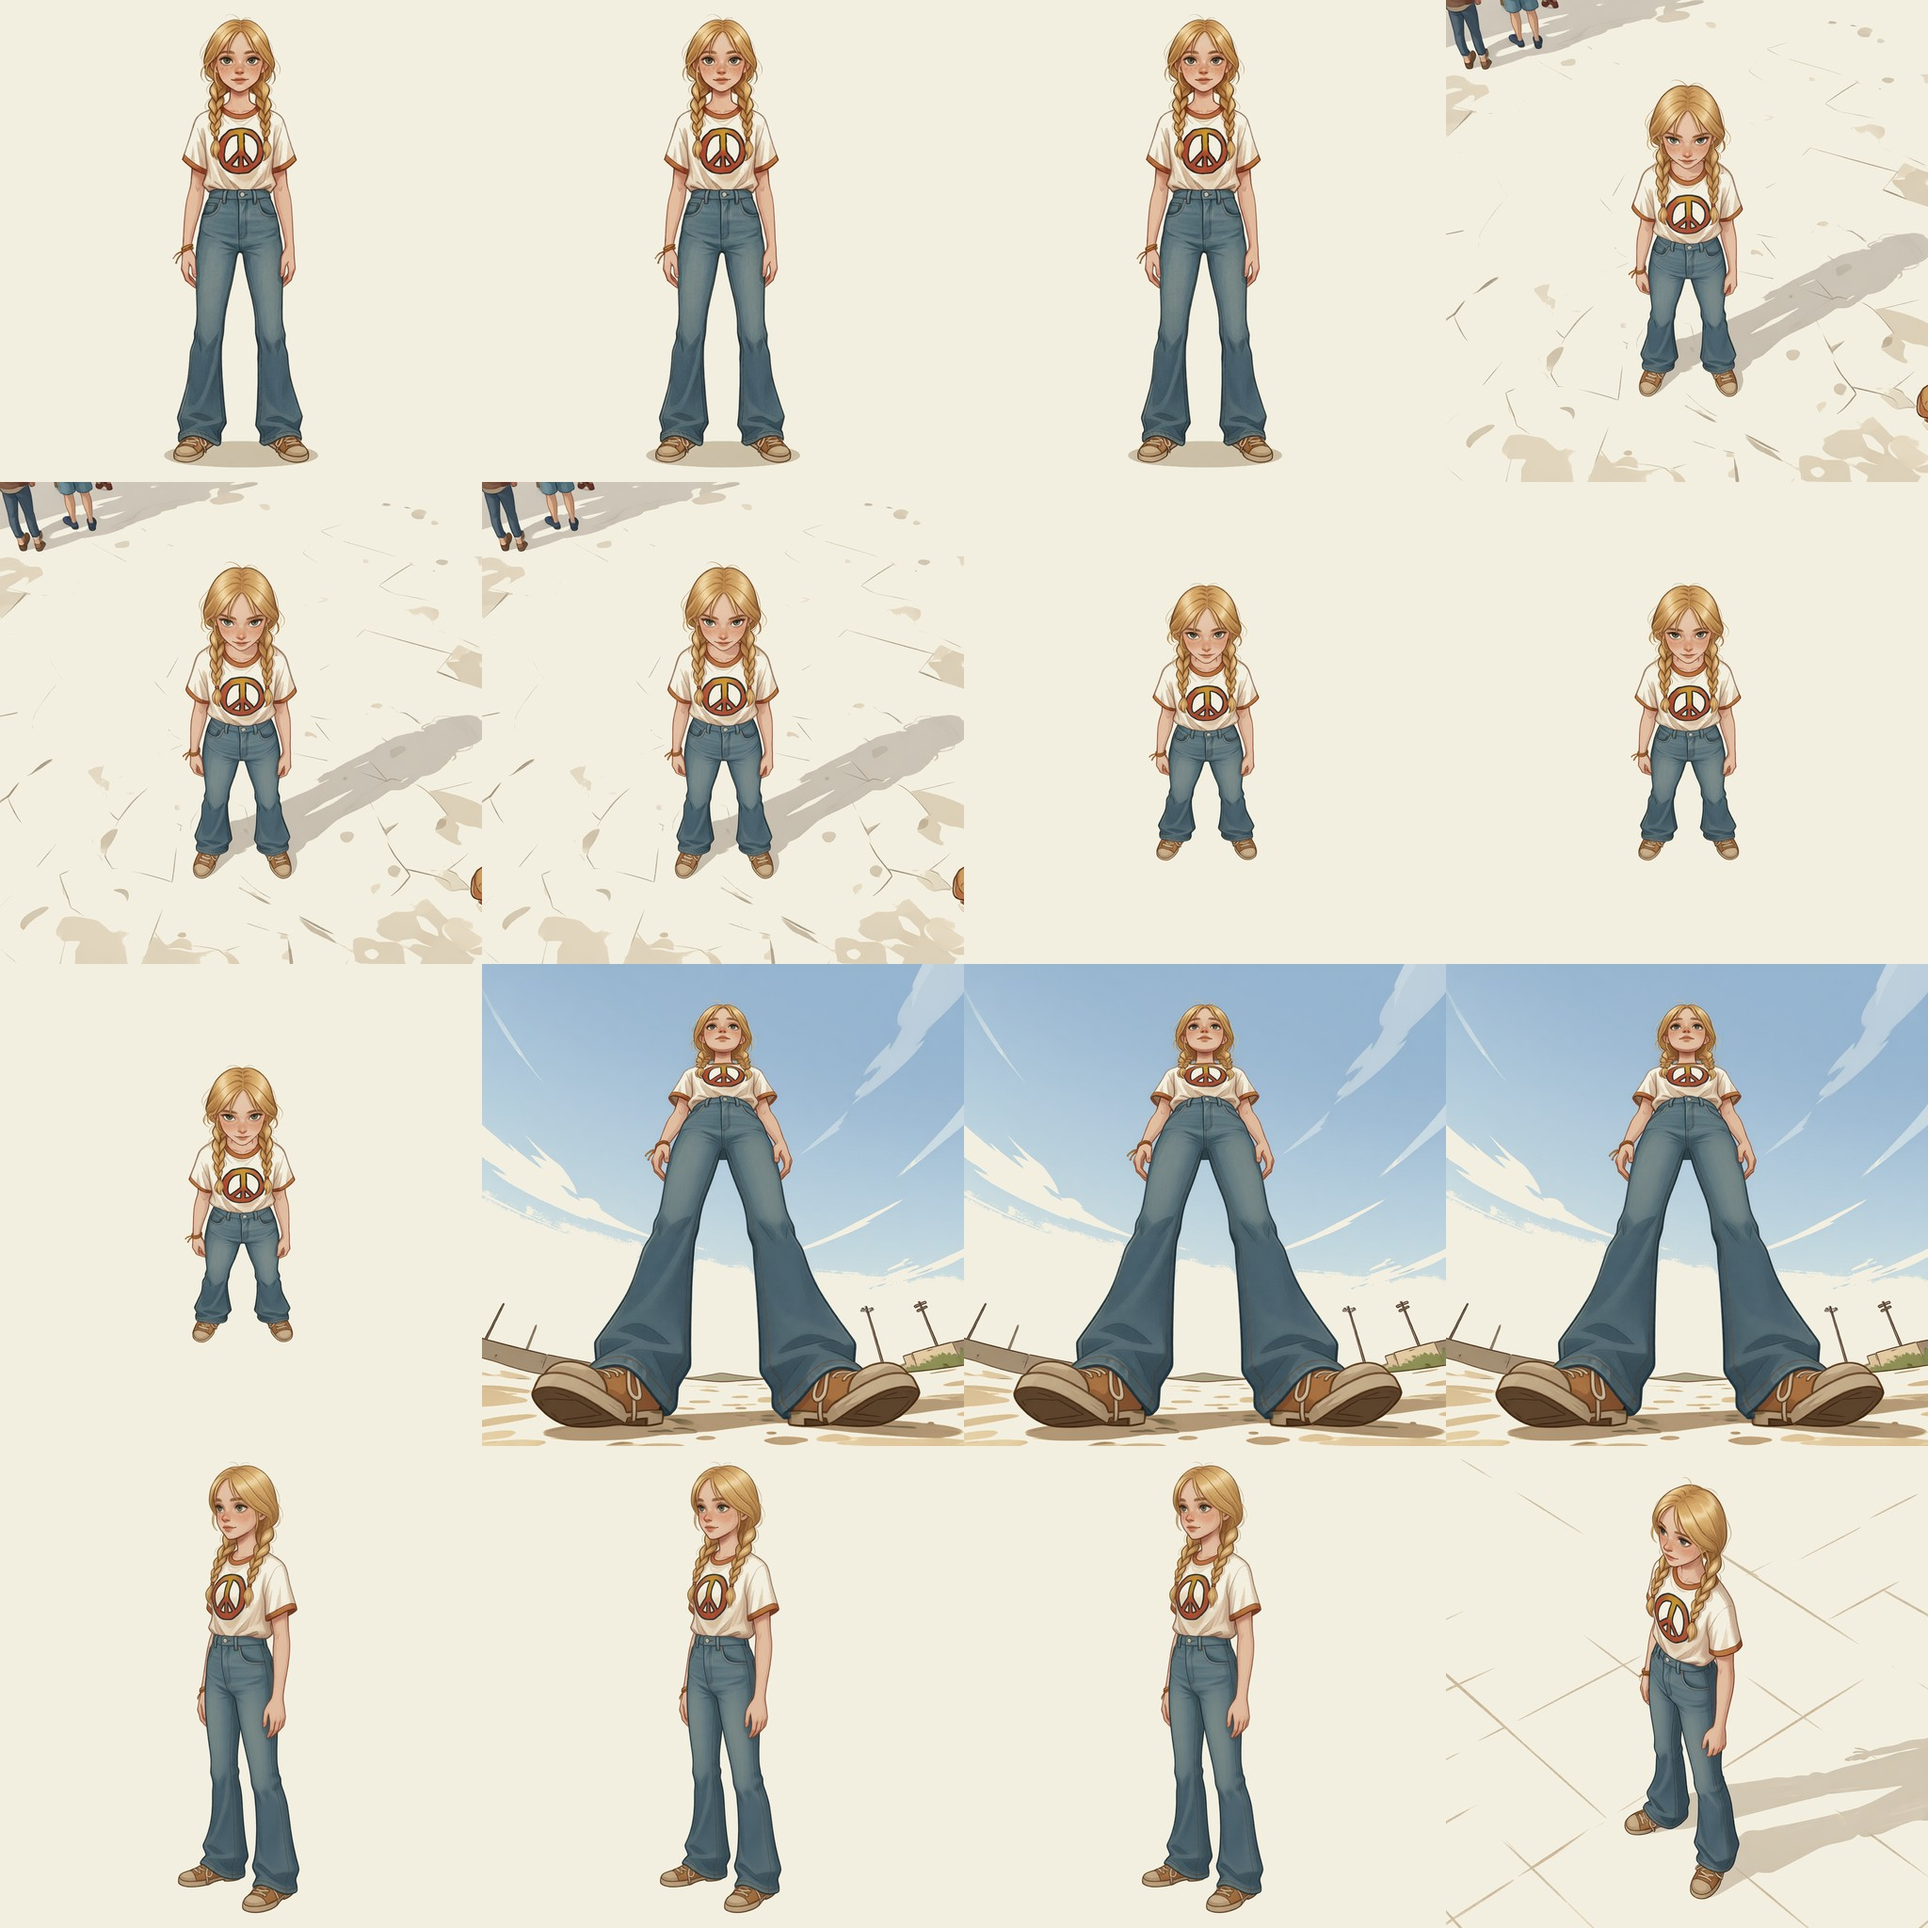
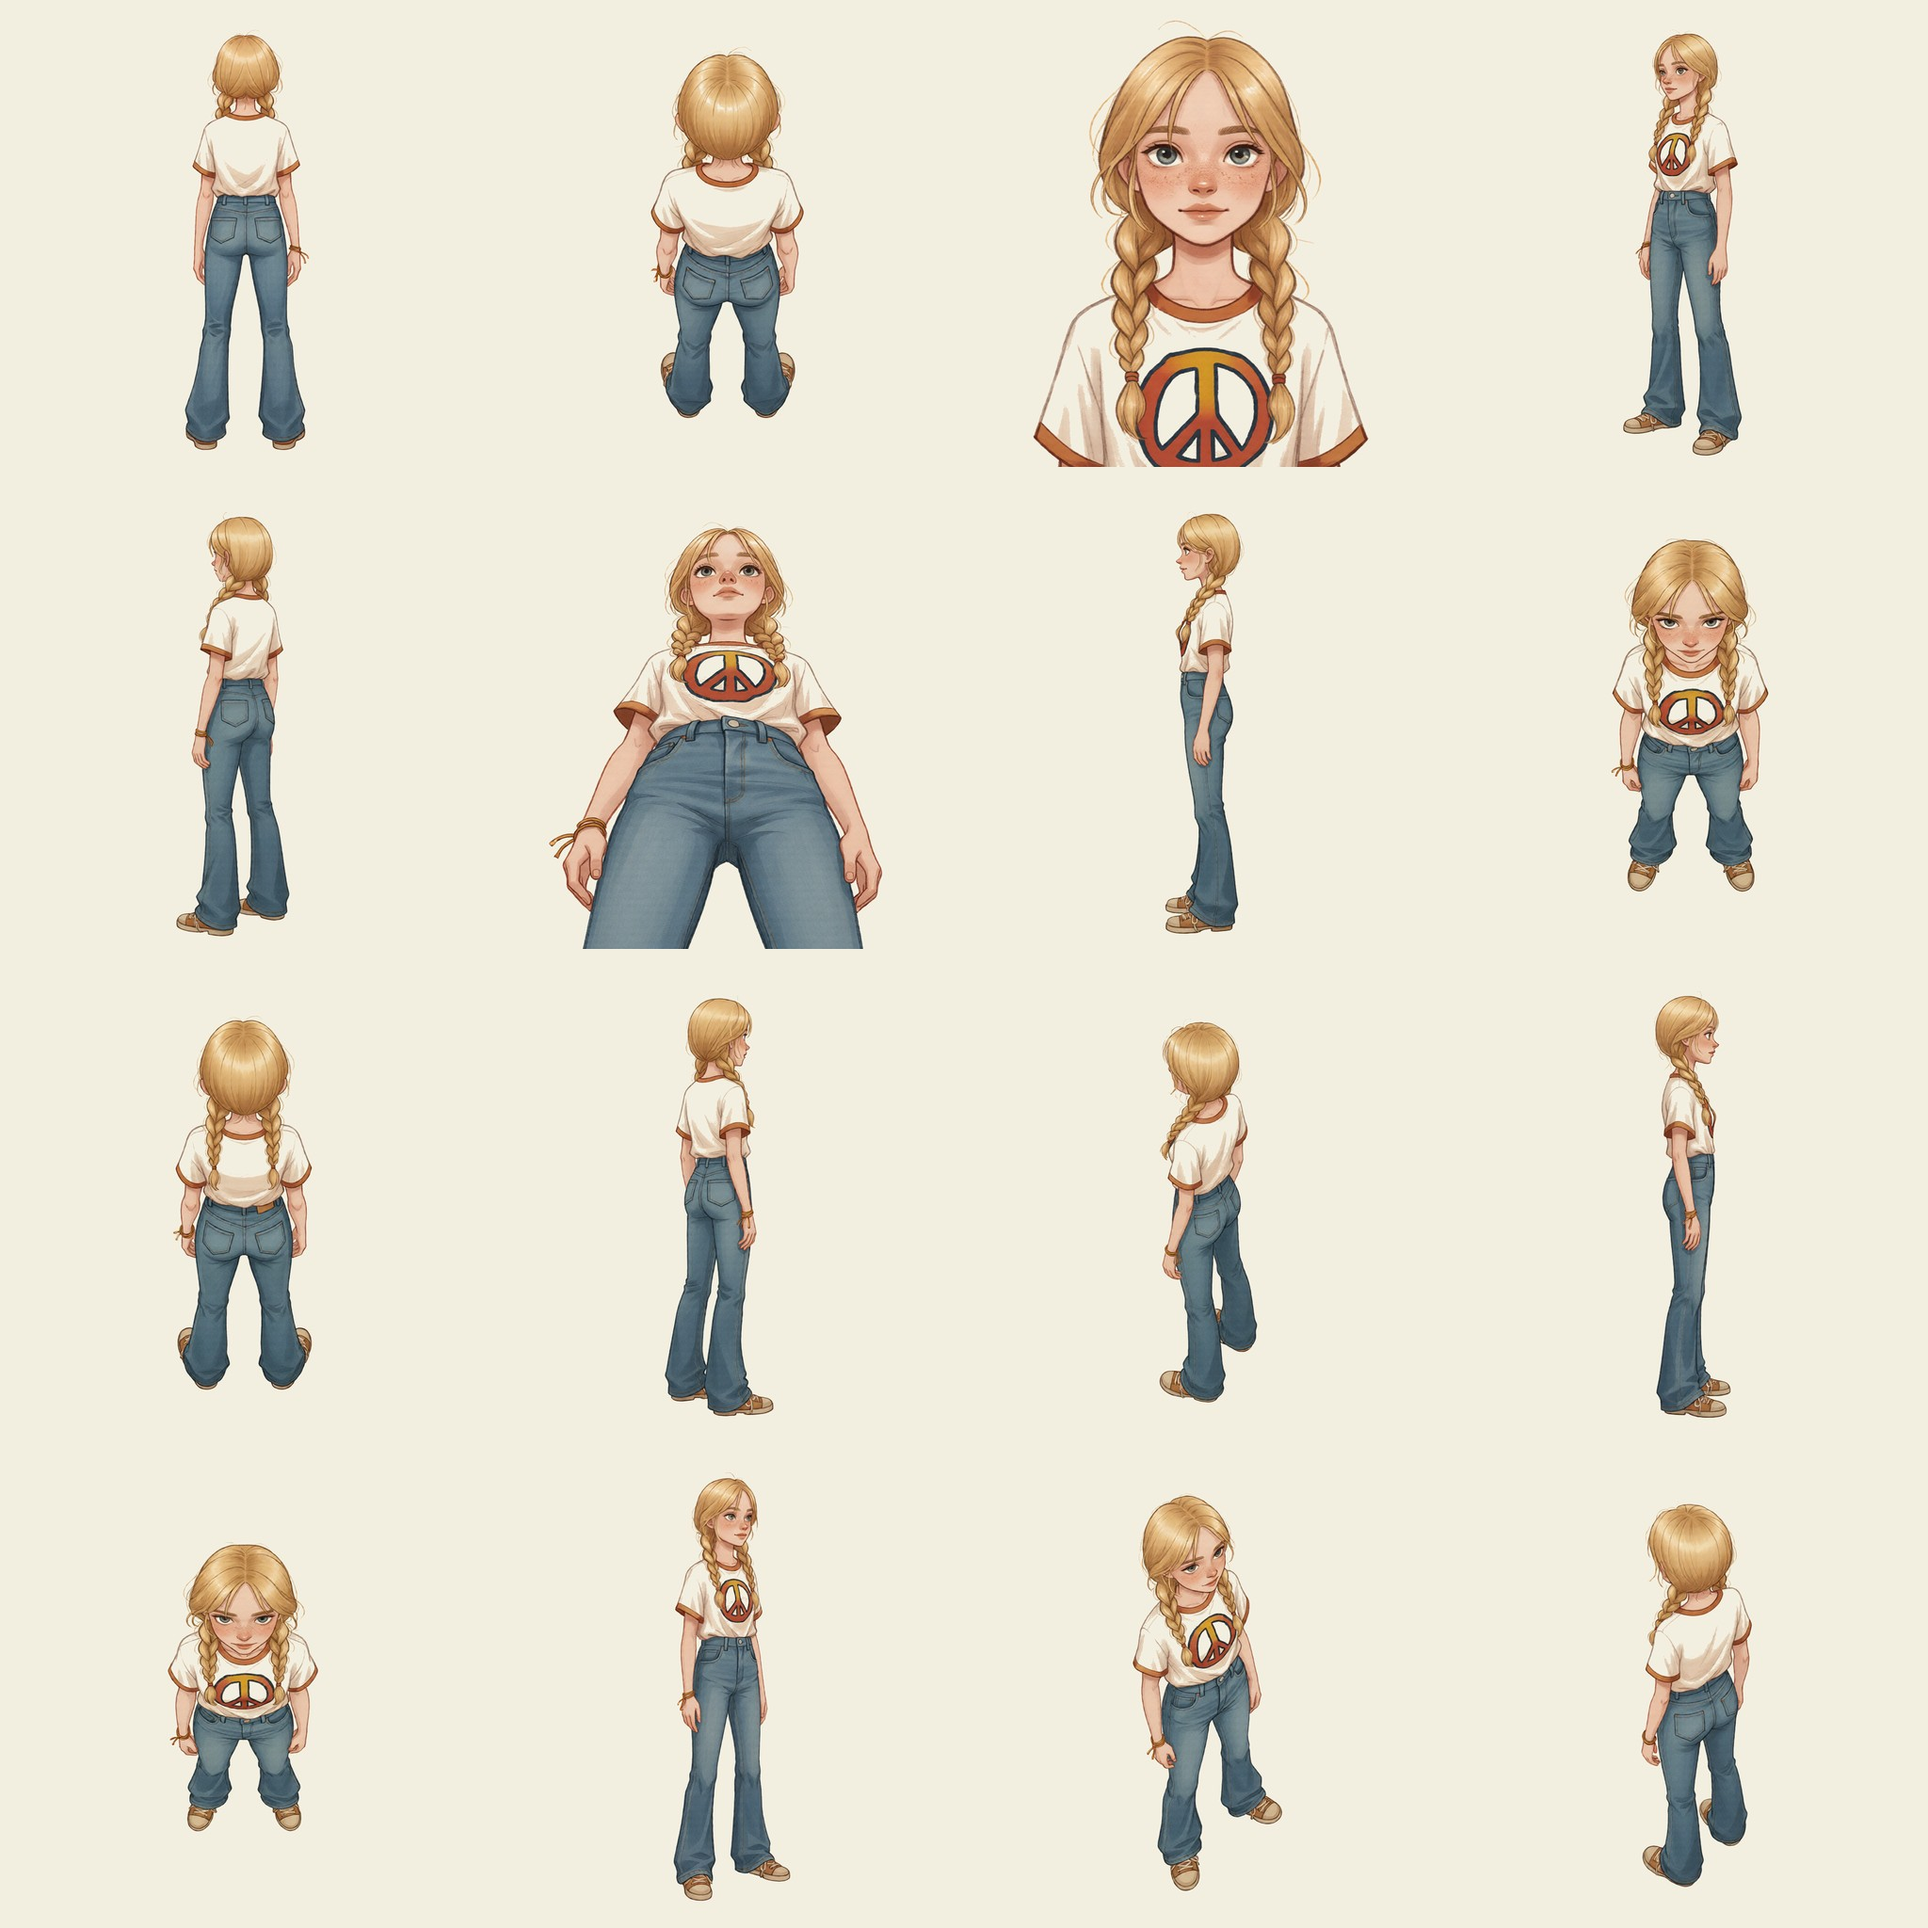
Add angles_prompt, poses_prompt pipelines, auto checkerboard cleanup, curated angle grid
- angles_prompt: 72 prompt-based camera angles (8 dirs x 3 distances x 3 elevations)
- poses_prompt: 16 text-driven body poses (walking, dancing, reading, etc.)
- Automatic checkerboard artifact cleanup on all downloaded images
- Curated 4x4 angle grid from 2509 pipeline
- Updated social preview

diff --git a/batch_multi_angle.py b/batch_multi_angle.py
@@ -173,6 +173,40 @@ POSES = {
     "shy_stance":     "Change the pose to a shy, bashful stance. Hands clasped together in front of the body at waist level, fingers intertwined. Shoulders raised slightly, one foot turned inward pigeon-toed. Head tilted down with eyes looking up.",
 }
 
+ANGLES_PROMPT = {}
+_GAZE_BRAID = "The character's eyes and gaze face the same direction the body is pointing. The braids drape in front of the shoulders, not behind."
+_DIRECTIONS = [
+    ("front",       "000", "front-facing",                                          ""),
+    ("front_right", "045", "from a 3/4 front-right angle",                          "Rotate the camera 45 degrees to the right."),
+    ("right",       "090", "in right side profile",                                 "Rotate the camera 90 degrees to the right."),
+    ("back_right",  "135", "from behind and slightly to the right",                 "Rotate the camera 135 degrees to the right."),
+    ("back",        "180", "from directly behind",                                  "Rotate the camera 180 degrees to show the back."),
+    ("back_left",   "225", "from behind and slightly to the left",                  "Rotate the camera 135 degrees to the left."),
+    ("left",        "270", "in left side profile",                                  "Rotate the camera 90 degrees to the left."),
+    ("front_left",  "315", "from a 3/4 front-left angle",                           "Rotate the camera 45 degrees to the left."),
+]
+for _name, _deg, _view, _rotate in _DIRECTIONS:
+    _r = f"{_rotate} " if _rotate else ""
+    ANGLES_PROMPT[f"{_name}_close"]  = f"{_r}Close-up shot showing head and shoulders {_view}. {_GAZE_BRAID}"
+    ANGLES_PROMPT[f"{_name}_medium"] = f"{_r}Move the camera much closer to the subject. The image should only contain the upper half of the body, from head to waist {_view}. The lower body is cut off by the bottom of the frame. {_GAZE_BRAID}"
+    ANGLES_PROMPT[f"{_name}_wide"]   = f"{_r}Full body wide shot {_view}, showing the entire figure from head to toe. {_GAZE_BRAID}"
+    # Elevated 30° versions (camera above looking down)
+    _elev_cam = "The camera is higher up, at head height plus 3 feet, angled slightly downward. The horizon line is low in the frame. Do not roll or rotate the camera, keep it perfectly level left to right."
+    _neutral_gaze = "Keep the exact same neutral facial expression as the original image. The character looks straight ahead in the direction the body faces, not at the camera. The braids drape in front of the shoulders, not behind."
+    ANGLES_PROMPT[f"{_name}_elev_close"]  = f"{_r}{_elev_cam} Close-up shot showing head and shoulders {_view}. {_neutral_gaze}"
+    ANGLES_PROMPT[f"{_name}_elev_medium"] = f"{_r}{_elev_cam} Move the camera much closer. The image should only contain the upper half of the body from head to waist {_view}. The lower body is cut off by the bottom of the frame. {_neutral_gaze}"
+    ANGLES_PROMPT[f"{_name}_elev_wide"]   = f"{_r}{_elev_cam} Full body wide shot {_view}, showing the entire figure from head to toe. {_neutral_gaze}"
+    # Low angle 30° versions (camera below looking up)
+    _low_cam = "The camera is lower, at knee height, angled slightly upward. The horizon line is high in the frame. Do not roll or rotate the camera, keep it perfectly level left to right."
+    ANGLES_PROMPT[f"{_name}_low_close"]  = f"{_r}{_low_cam} Close-up shot showing head and shoulders {_view}. {_neutral_gaze}"
+    ANGLES_PROMPT[f"{_name}_low_medium"] = f"{_r}{_low_cam} Move the camera much closer. The image should only contain the upper half of the body from head to waist {_view}. The lower body is cut off by the bottom of the frame. {_neutral_gaze}"
+    ANGLES_PROMPT[f"{_name}_low_wide"]   = f"{_r}{_low_cam} Full body wide shot {_view}, showing the entire figure from head to toe. {_neutral_gaze}"
+
+ANGLES_PROMPT_PREFIX = (
+    "Keep the same outfit, hairstyle, hair color, identity, and the same plain solid color background. "
+    "Do not change the background color or add any scene elements. "
+)
+
 POSES_PREFIX = (
     "Keep the same outfit, hairstyle, hair color, identity, and the same plain solid color background. "
     "Do not change the background color or add any scene elements. "
@@ -223,7 +257,7 @@ def build_workflow(
             image_filename, pose_image_filename, prompt, seed, steps,
             guidance_scale, lora_strength_lightning, filename_prefix,
         )
-    if pipeline in ("expressions", "lighting", "outfits", "poses_prompt"):
+    if pipeline in ("expressions", "lighting", "outfits", "poses_prompt", "angles_prompt"):
         return build_workflow_expressions(
             image_filename, prompt, seed, steps, guidance_scale,
             lora_strength_lightning, filename_prefix,
@@ -1284,8 +1318,8 @@ def main():
     p.add_argument("--elevations", default=None, help="Subset, e.g. -30,0,30,60")
     p.add_argument("--distances", default=None, help="Subset, e.g. 0.6,1.0,1.8")
     p.add_argument("--pipeline", default="2511",
-                   choices=["2509", "2511", "anypose", "expressions", "lighting", "outfits", "poses_prompt"],
-                   help="Model pipeline: 2509, 2511 (default), anypose, expressions, lighting, outfits, or poses_prompt")
+                   choices=["2509", "2511", "anypose", "expressions", "lighting", "outfits", "poses_prompt", "angles_prompt"],
+                   help="Model pipeline: 2509, 2511 (default), anypose, expressions, lighting, outfits, poses_prompt, or angles_prompt")
     p.add_argument("--pose-dir", default=None,
                    help="Directory of pose images (required for --pipeline anypose)")
     p.add_argument("--prompt-append", default="",
@@ -1316,7 +1350,14 @@ def main():
 
     suffix = f" {args.prompt_append}" if args.prompt_append else ""
 
-    if args.pipeline == "poses_prompt":
+    if args.pipeline == "angles_prompt":
+        jobs = [
+            (None, None, None,
+             ANGLES_PROMPT_PREFIX + desc + suffix,
+             f"angle_{name}.png")
+            for name, desc in ANGLES_PROMPT.items()
+        ]
+    elif args.pipeline == "poses_prompt":
         jobs = [
             (None, None, None,
              POSES_PREFIX + desc + suffix,
@@ -1376,6 +1417,8 @@ def main():
     print(f"\n{'='*64}")
     if args.pipeline == "anypose":
         print(f"  Qwen Image Edit — AnyPose Batch Renderer")
+    elif args.pipeline == "angles_prompt":
+        print(f"  Qwen Image Edit — Prompt Angle Batch Renderer")
     elif args.pipeline == "poses_prompt":
         print(f"  Qwen Image Edit — Prompt Pose Batch Renderer")
     elif args.pipeline == "expressions":
@@ -1390,6 +1433,8 @@ def main():
     print(f"  Input   : {args.image}")
     if args.pipeline == "anypose":
         print(f"  Pose Dir: {args.pose_dir}  ({total} poses)")
+    elif args.pipeline == "angles_prompt":
+        print(f"  Angles: {total}")
     elif args.pipeline == "poses_prompt":
         print(f"  Poses: {total}")
     elif args.pipeline == "expressions":
@@ -1399,7 +1444,7 @@ def main():
     elif args.pipeline == "outfits":
         print(f"  Outfits: {total} variations")
     print(f"  Output  : {args.output}")
-    if args.pipeline not in ("anypose", "expressions", "lighting", "outfits", "poses_prompt"):
+    if args.pipeline not in ("anypose", "expressions", "lighting", "outfits", "poses_prompt", "angles_prompt"):
         print(f"  Poses   : {total}  ({len(azimuths)} az × {len(elevations)} el × {len(distances)} dist)")
     print(f"  Steps   : {args.steps}  |  CFG: {args.guidance}  |  Seed: {args.seed}")
     print(f"  Pipeline: {args.pipeline}")
